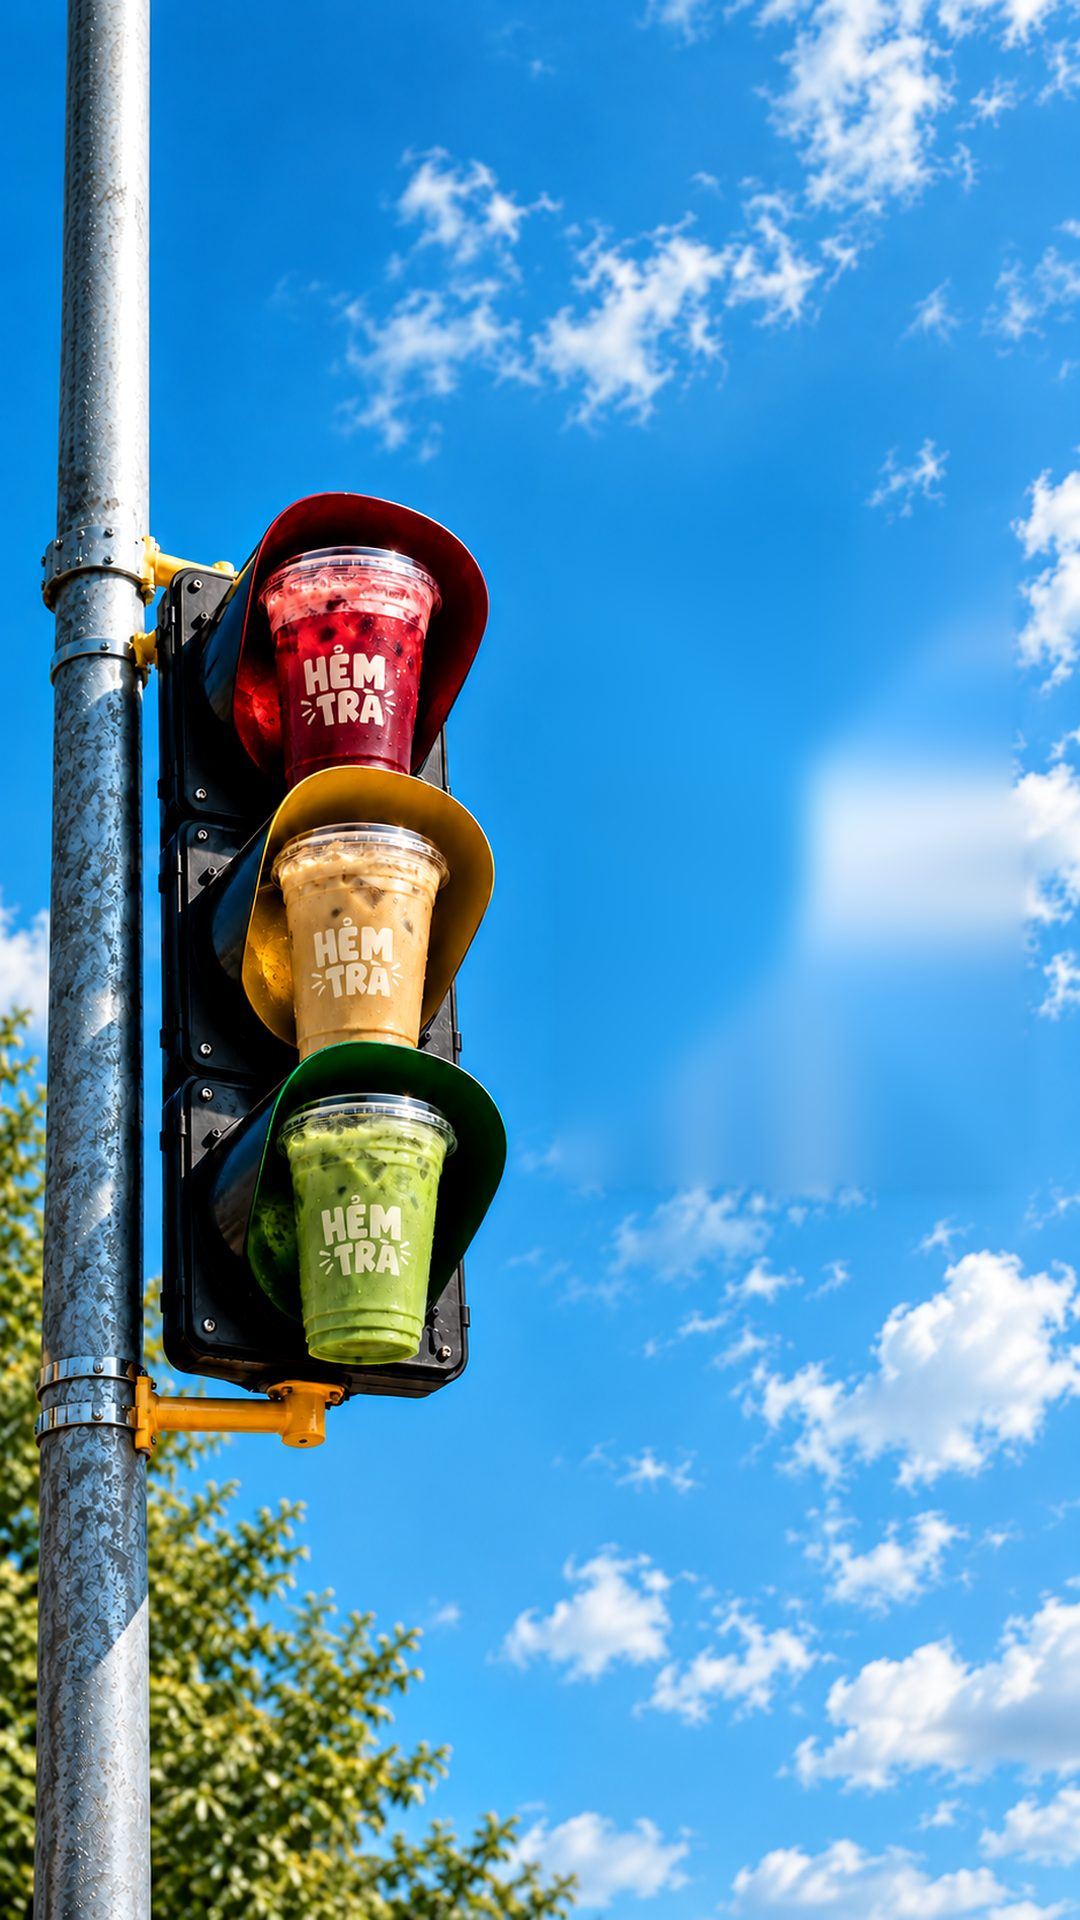
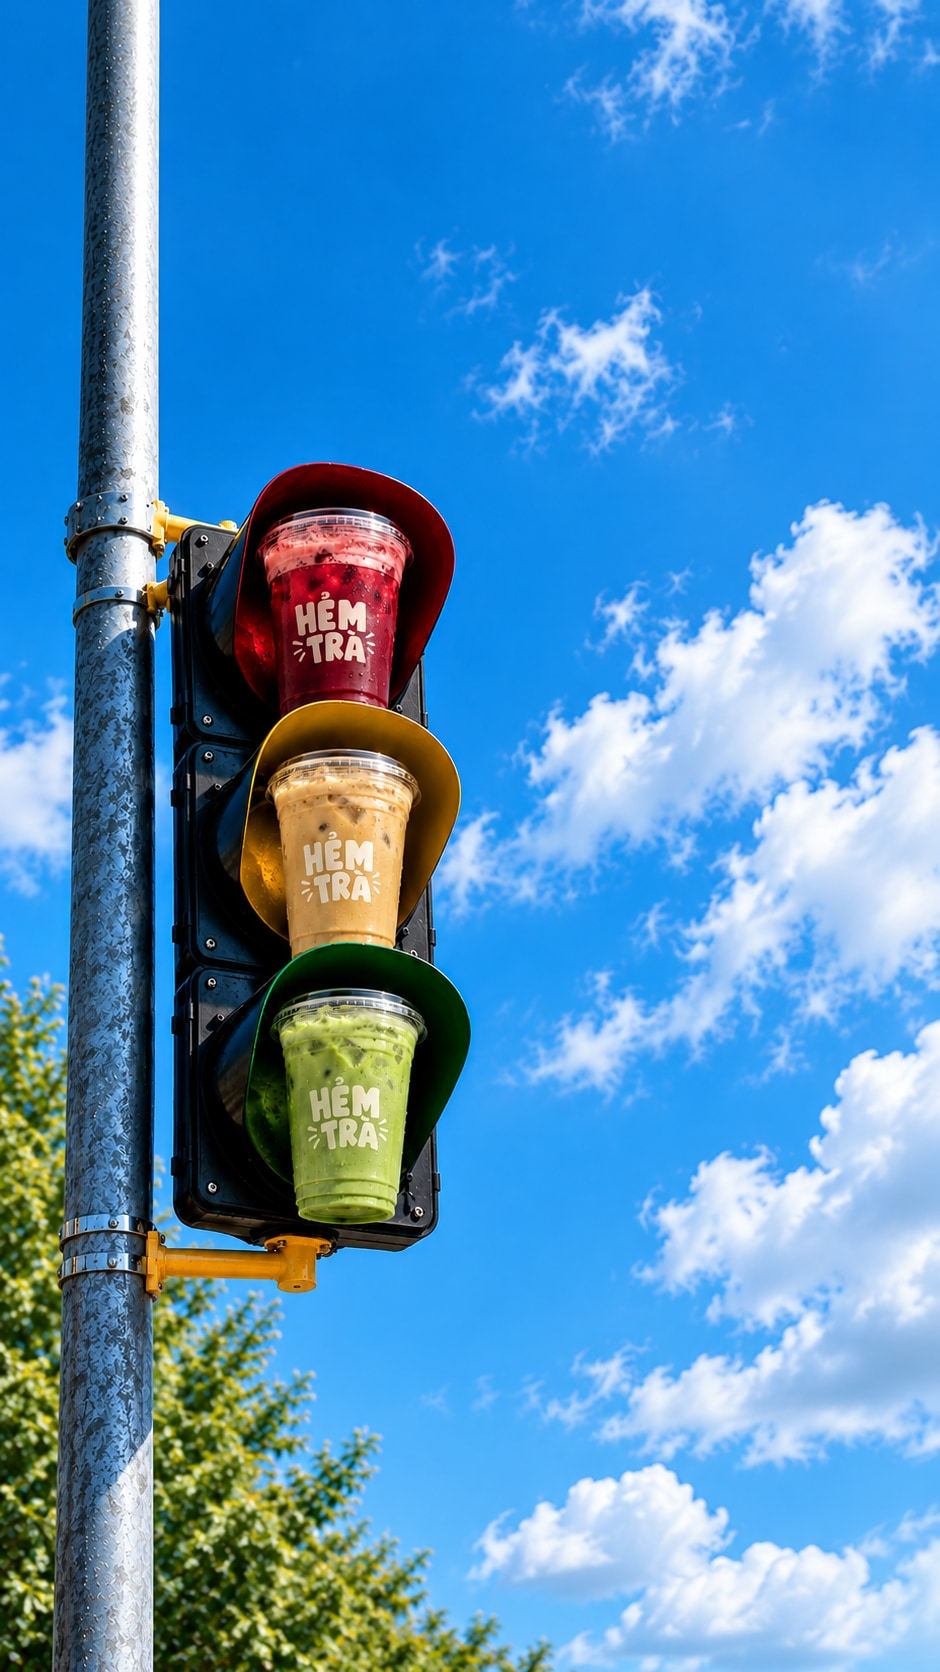
feat(P2): chot QC/SEC PASS, doi nen login bang anh goc login-hero.png
- nen login stage: thay ban trich tu template.html bi nhòe bang anh goc
  login-hero.png (940x1672) -> login-stage.webp q92 240KB + jpg q92 275KB (image-set)
- giam backdrop-blur nen sau dang nhap 24px -> 12px (design §7.2)
- QC P2 vong 1 PASS (43/43, coverage lines 96.61%, 9/9 e2e, axe sach) + 4 MINOR vao backlog
- SEC P2 vong 1 PASS (gitleaks 0, npm audit 0, XSS harness 5/5, storage chi luu username)
- state: P2 done, pointer -> P3-T0; Q-005 chot phuong an A+B; evidence p2-{qc,sec}-round1.md

diff --git a/src/features/auth/LoginStage.test.tsx b/src/features/auth/LoginStage.test.tsx
@@ -1,4 +1,4 @@
-import { act, cleanup, render, screen, waitFor } from '@testing-library/react'
+import { act, cleanup, render, screen, waitFor, within } from '@testing-library/react'
 import userEvent from '@testing-library/user-event'
 import { MemoryRouter } from 'react-router-dom'
 import { afterEach, beforeEach, describe, expect, it, vi } from 'vitest'
@@ -155,5 +155,51 @@ describe('LoginStage', () => {
 
     await user.click(screen.getByRole('button', { name: 'Quên mật khẩu' }))
     expect(screen.getByRole('status')).toHaveTextContent('Liên hệ admin')
+  })
+})
+
+const ORIGINAL_UA = window.navigator.userAgent
+
+function stubUserAgent(userAgent: string) {
+  Object.defineProperty(window.navigator, 'userAgent', { value: userAgent, configurable: true })
+}
+
+describe('LoginStage — hộp hướng dẫn cài app trên iOS (bổ sung QC Q4, P2-T4)', () => {
+  const IPHONE_UA =
+    'Mozilla/5.0 (iPhone; CPU iPhone OS 17_0 like Mac OS X) AppleWebKit/605.1.15 (KHTML, like Gecko) Version/17.0 Mobile/15E148 Safari/604.1'
+
+  beforeEach(() => {
+    window.localStorage.clear()
+    window.sessionStorage.clear()
+    stubUserAgent(IPHONE_UA)
+  })
+
+  afterEach(() => {
+    stubUserAgent(ORIGINAL_UA)
+    Reflect.deleteProperty(window.navigator, 'standalone')
+    vi.restoreAllMocks()
+  })
+
+  it('hiện nút Tải App trên iPhone và mở hộp hướng dẫn 3 bước khi chưa có beforeinstallprompt', async () => {
+    const user = userEvent.setup()
+    renderLogin()
+
+    await user.click(screen.getByRole('button', { name: /tải app/i }))
+
+    const dialog = await screen.findByRole('dialog')
+    expect(dialog).toHaveTextContent('Cài Hẻm Trà trên iPhone')
+    expect(within(dialog).getAllByRole('listitem')).toHaveLength(3)
+    await waitFor(() => expect(screen.getByRole('button', { name: 'Đóng' })).toHaveFocus())
+
+    await user.keyboard('{Escape}')
+    expect(screen.queryByRole('dialog')).not.toBeInTheDocument()
+  })
+
+  it('ẩn nút Tải App khi app đang chạy standalone dù thiết bị là iPhone', () => {
+    Object.defineProperty(window.navigator, 'standalone', { value: true, configurable: true })
+
+    renderLogin()
+    expect(screen.queryByRole('button', { name: /tải app/i })).not.toBeInTheDocument()
+    expect(screen.getByRole('button', { name: /xóa cache/i })).toBeInTheDocument()
   })
 })

diff --git a/src/features/auth/signIn.test.ts b/src/features/auth/signIn.test.ts
@@ -1,0 +1,22 @@
+import { describe, expect, it } from 'vitest'
+import { SIGN_IN_ERROR } from './loginForm'
+import { signIn, wrongPassword } from './signIn'
+
+// Bổ sung theo QC Q4/Q5 — signIn là stub nối tạm ở P2; P3-T4 thay bằng Edge
+// Function auth-login. Test ghi lại hợp đồng hiện tại để không đổi ngầm.
+describe('signIn (stub P2)', () => {
+  it('trả về ok:true cho tài khoản hợp lệ khi backend chưa được nối', async () => {
+    await expect(signIn('linh', 'mat-khau')).resolves.toEqual({ ok: true })
+  })
+
+  it('không ném lỗi với chuỗi rỗng (stub chưa validate đầu vào)', async () => {
+    await expect(signIn('', '')).resolves.toEqual({ ok: true })
+  })
+})
+
+describe('wrongPassword', () => {
+  it('trả lỗi tiếng Việt chung chung, không lộ tài khoản nào sai', () => {
+    expect(wrongPassword()).toEqual({ ok: false, message: SIGN_IN_ERROR })
+    expect(wrongPassword().message).toBe('Tài khoản hoặc mật khẩu không đúng.')
+  })
+})

diff --git a/src/features/auth/login-stage.css b/src/features/auth/login-stage.css
@@ -38,7 +38,13 @@
   width: var(--sw);
   height: 100%;
   left: min(0px, calc(100% - var(--sw) * 0.96));
+  /* Ảnh gốc do user cung cấp (login-hero.png) — không dùng bản trích từ template.html (bị nhòe).
+     image-set() tải webp khi hỗ trợ, jpeg chỉ là dự phòng. */
   background: url("../../assets/login-stage.jpg") center / 100% 100% no-repeat;
+  background-image: image-set(
+    url("../../assets/login-stage.webp") type("image/webp"),
+    url("../../assets/login-stage.jpg") type("image/jpeg")
+  );
 }
 
 .login-page .logo {

diff --git a/src/app/AppLayout.tsx b/src/app/AppLayout.tsx
@@ -21,7 +21,7 @@ export default function AppLayout() {
   return (
     <div className="relative min-h-dvh">
       <div aria-hidden="true" className="app-bg absolute inset-0" />
-      <div aria-hidden="true" className="absolute inset-0 bg-overlay backdrop-blur-lg" />
+      <div aria-hidden="true" className="absolute inset-0 bg-overlay backdrop-blur-md" />
 
       <div className="relative flex min-h-dvh">
         <aside className="hidden w-60 shrink-0 md:block">

diff --git a/.opencode/evidence/p2-sec-round1.md b/.opencode/evidence/p2-sec-round1.md
@@ -1,0 +1,63 @@
+# SEC REPORT — Phase P2 — Vòng 1
+
+```
+VERDICT: PASS
+PHẠM VI: hẹp (P2 = frontend thuần, theo loop.md §5) · BỀ MẶT: form đăng nhập
+  (loginForm.ts, LoginStage.tsx, signIn.ts stub), localStorage/sessionStorage,
+  useClearCache (giả lập), nút Tải App (install prompt), routing routes.tsx,
+  assets/CSS/font, public/_redirects, build dist/
+skills_read: [subagent.md, AGENT.md, loop.md, .opencode/skills/security/skill.md]
+```
+
+## 0. Đối chiếu scope (bắt buộc)
+
+- `git status --short` + `git diff HEAD --stat` → working tree **khớp 100%** scope_files[working tree]:
+  `THIRD_PARTY.md, plan.md, state.json, src/app/AppLayout.tsx, src/assets/login-stage.jpg,
+  src/assets/login-stage.webp (??), src/features/auth/{login-stage.css, LoginStage.test.tsx,
+  signIn.test.ts (??)}, login-hero.png (??)` + `.opencode/evidence/` (untracked, do subagent tạo).
+- `git show d7ed769 --name-status` → **lệch minor so với scope_files[commit]** (không phải lỗi bảo mật):
+  ngoài danh sách còn `M package-lock.json`, `M src/main.tsx`, `M state.json`,
+  `D src/App.tsx`, `D src/App.test.tsx`, `D src/index.css` (đổi chỗ App → `src/app/`,
+  `index.css` → `src/styles/`). Không có file nào ngoài khối UI của P2.
+- Không có thay đổi nào trong `supabase/` (`git show d7ed769 --name-only | grep '^supabase/'` → rỗng;
+  `git status --short supabase/` → rỗng).
+
+## 1. Kết quả theo hạng mục
+
+| # | Kết quả | Lệnh + output ngắn |
+|---|---|---|
+| S1 | ✔ | `gitleaks detect -v --redact` → `20 commits scanned … no leaks found` (exit 0). `gitleaks detect --no-git -v --redact .` → 3 finding, **tất cả nằm trong `.env` local đã gitignore** (`git check-ignore -v .env` → `.gitignore:2:.env`; `git log --all --oneline -- .env` → rỗng = chưa từng commit). `git grep -IE "(SUPABASE_\|eyJ[A-Za-z0-9_-]{20,}\|sk_live\|AIza)"` → chỉ `/.env.example` (placeholder `<anon-key>`), `.opencode/skills/*` (tài liệu), `package-lock.json:integrity sha512-…` (hash, không phải key). **dist/ sạch**: build lại (`npm run build` exit 0) rồi grep thật cả 5 giá trị key trong `.env` + pattern `eyJ{20,}\|sk_live\|AIza{15,}\|SERVICE_ROLE` trên `dist/` → 0 hit; binary `login-hero.png`, `src/assets/*.{png,jpg,webp}`, `public/fonts/*.woff2` → 0 hit. |
+| S2 | ✔ | `npm audit --omit=dev` → `found 0 vulnerabilities` (exit 0); `npm audit` (toàn bộ) cũng `0 vulnerabilities`. |
+| S3 | N-A | P2 không đụng DB: `git show d7ed769 --name-only \| grep '^supabase/'` → rỗng, `git status supabase/` → rỗng. Không migration mới trong phase → không có gì để kiểm RLS mới; RLS đã xác minh ở P1 (prev: 28/28 test). |
+| S4 | N-A | `grep -rIn "createClient\|fetch(\|supabase\.\|axios" src/` → **rỗng** (không client/network nào). `src/features/auth/signIn.ts:7-10` là stub `return { ok: true }` — chưa có API/Edge Function để gọi; server-side auth/PHQ ở **P3-T4**. |
+| S5 | N-A | Không tồn tại xác thực server/token trong phase này (signIn stub, không JWT/lockout) — lockout 5/15 phút + token hết hạn/sửa được kiểm ở P3/P10 (prev P1 đã có `session_fresh()`). |
+| S6 | N-A | Bootstrap admin thuộc **P3**; không có endpoint bootstrap trong diff P2. |
+| S7 | ✔ | Harness S7 riêng (vitest/jsdom, chạy ngoài repo: `/tmp/opencode/sec/`) → **5/5 pass**: 4 payload `<script>alert(1)</script>`, `"><img src=x onerror=alert(1)>`, `' OR 1=1--`, `<svg/onload=alert(document.cookie)>` nhập vào ô Tài khoản + Mật khẩu rồi submit, **và** đặt làm saved-username render lại placeholder `Mật khẩu của <payload>` → 0 element `script/img/iframe/object/embed`, 0 attribute `on*` inline, spy `window.alert` không gọi, không lỗi, không `role=alert`. Giá trị round-trip đúng dạng data (`placeholder === "Mật khẩu của "+payload`). `grep -rIn "dangerouslySetInnerHTML\|innerHTML\|\beval(\|new Function\|document.write" src/` → **rỗng**; e2e `npx playwright test` → 9/9 pass với assertion `expect(errors).toEqual([])` (0 console error). |
+| S8 | N-A | 5 trang (`Dashboard/Products/Pos/Bills/Users`) là stub text-only (`src/features/pos/PosPage.tsx` chỉ `<h1>+<p>`), không ID/dữ liệu/bill nào để truy cập chéo; signed URL/Storage không thuộc phase. |
+| S9 | N-A | Không có upload/Storage trong P2 (không `supabase.storage`, không input file). Bucket/policy đã xác minh ở P1 (P1-T8). |
+| S10 | N-A | Không có endpoint để bắn rate limit; `signIn` stub không gọi mạng. Rate limit tạo bill đã có ở P1 (`create_bill`), lockout đăng nhập kiểm ở P3-T4/P10. |
+| S11 | N-A | **Theo plan**: `plan.md:62` (P4-T1) và `plan.md:128` (P10-T1) đặt `public/_headers` (CSP/HSTS/no-cache) — chưa đến phase. Xác nhận `find dist -name _headers` → rỗng (đúng, chưa có). Không chặn cổng. |
+| S12 | ✔ (hẹp) | `find dist public src -name 'sw.js' -o -name '*.webmanifest'` + `grep -rIn "serviceWorker\|manifest" src/ index.html public/` → **rỗng**: phase này chưa có SW/manifest (P4-T1). `public/_redirects` = đúng 1 dòng `/* /index.html 200` (SPA fallback thuần, không có cache-control/token nào); không có gì cache token/API. |
+| S13 | ✔ | `grep -rIn "localStorage\|sessionStorage" src/` → **chỉ** `loginForm.ts:25,30,36,37` + comment `useClearCache.ts:9` + test; storage key duy nhất `export const USERNAME_KEY = 'hemtra.username'` (`loginForm.ts:8`) — **không lưu mật khẩu/token**. Harness: sau đăng nhập `Object.keys(allStorage()) === ['hemtra.username']`, `JSON.stringify(storage)` không chứa `mat-khau-bi-mat-123`; tắt "Ghi nhớ" → chỉ `sessionStorage`, `localStorage` null. `grep -rIn "console\." src/` → **rỗng** (0 log, nên không log PII/secret). Không `dangerouslySetInnerHTML`/`eval`. |
+| S14 | N-A | Không có logic tiền/bill: `grep -rIn "client_uuid\|price\|create_bill\|VND" src/features/` → rỗng; 5 trang stub. Server tính lại giá (`create_bill`) đã xác minh ở P1. |
+| S15 | N-A | **P3-T5 chưa làm** → chưa có phiên/`login_at`/JWT để kiểm. Những gì P2 thật sự sở hữu đã kiểm ở S13: checkbox "Ghi nhớ" chỉ đổi nơi giữ **username** (`loginForm.ts:28-32` localStorage vs sessionStorage), không ảnh hưởng phiên. |
+
+Phụ trợ (không phải checklist SEC nhưng là lệnh trong commands_hint, làm bằng chứng nền):
+`npm run typecheck` → exit 0 · `npm run lint` → exit 0 · `npm run test -- --run` → **43/43 pass**
+· `npm run build` → exit 0 (js 277.31 kB / gzip 88.23 kB) · `npx playwright test` → **9/9 pass** (0 console error).
+
+## 2. LỖI
+
+**Không có.** Không BLOCKER/MAJOR/MINOR nào thuộc checklist S1–S15 ở phạm vi hẹp P2 → không cần backlog mới từ SEC.
+
+## 3. NGHI VẤN (chưa chứng minh, không chặn)
+
+1. `gitignore` cover hẹp: `.gitignore:2-4` chỉ có `.env`, `.env.local`, `.env.*.local` — file `.env.production`/`.env.staging` (nếu sinh sau) **không** bị ignore. Hiện chưa có file nào như vậy → ghi `backlog` (đề xuất: thêm `.env.*` nhưng giữ `.env.example`).
+2. `.env` local chứa `SUPABASE_SERVICE_ROLE_KEY` + `SUPABASE_ACCESS_TOKEN` (gitleaks bắt ở chế độ `--no-git`). Đã gitignore, chưa từng commit (`git log --all -- .env` rỗng) → không vi phạm AGENT.md §6; nhắc duy trì quy tắc và ưu tiên dọn khỏi working dir khi không dùng.
+3. `src/app/routes.tsx:13-28` không có auth guard + `signIn` stub luôn thành công → ai cũng mở được `/dashboard|/products|/pos|/bills|/users`. **Đúng kế hoạch** (guard = P3-T7, trang rỗng không dữ liệu) → ghi để P3 xác nhận lại khi gắn phiên thật.
+
+## 4. KHÔNG KIỂM ĐƯỢC
+
+- Server-side (S3/S4/S5/S6/S10/S14/S15 phần backend): ngoài bề mặt P2 (frontend thuần, không network call) — chuyển sang **P3/P10**.
+- Header thật từ Cloudflare Pages (S11): `_headers` chưa tồn tại → kiểm lại ở **P4-T1/P10-T1**.
+- Tấn công runtime trên trình duyệt thật cho payload (S7): đã thay bằng harness jsdom 5 test + e2e 9 test (0 console error); nếu cần chứng minh mạnh hơn, thêm case XSS vào `e2e/p2-login.spec.ts` ở vòng QC kế tiếp (không thuộc quyền của security-audit).

diff --git a/.opencode/evidence/p2-qc-round1.md b/.opencode/evidence/p2-qc-round1.md
@@ -1,0 +1,35 @@
+# QC REPORT — Phase P2 — Vòng 1
+
+VERDICT: PASS
+TÓM TẮT: P2 (T1–T7) đạt toàn bộ hạng mục Q1–Q12 (Q8 N/A — phase không chạm DB).
+qc-test đã bổ sung 5 unit test (hộp hướng dẫn iOS trên iPhone, ẩn nút khi standalone, `signIn`) → tổng 43/43 pass.
+
+KẾT QUẢ THEO HẠNG MỤC:
+- Q1 ✔ `npm run typecheck` → exit 0
+- Q2 ✔ `npm run lint` → exit 0
+- Q3 ✔ `npx vitest run` → 43/43 pass, không `.skip/.only` mới
+- Q4 ✔ đối chiếu tasks_done ↔ test: validate form, lưu username, install prompt,
+  clear-cache hook, LoginStage render/shake/reduced-motion — happy path + biên + lỗi
+- Q5 ✔ `npx vitest run --coverage` → lines **96.61%** (ngưỡng ≥ 80%)
+- Q6 ✔ không assert rỗng; mock che lỗi thật; tên mô tả hành vi
+- Q7 ✔ đối chiếu `design.md` §7 (vị trí % logo/card, radius/blur, reduced-motion)
+- Q8 N/A — phase không chạm DB/migration
+- Q9 ✔ `npm run build` → JS 277.31 kB / **gzip 88.23 kB** (< ngưỡng 250 kB)
+- Q10 ✔ `npx playwright test` → 9/9 (chromium/webkit/mobile × 3 test); không vỡ layout
+  390×844 và 1280×800; 0 lỗi console; ảnh chụp `e2e/screenshots/`
+- Q11 ✔ axe-core qua Playwright → 0 vi phạm serious/critical
+- Q12 ⚠ `git diff` sát scope P2; 4 mục MINOR không chặn → ghi `backlog`
+
+MINOR (không chặn cổng, đã ghi `state.json → backlog`):
+- [QC P2-001] file rác `login-hero.png` ở root → nay đã dùng làm nguồn ảnh nền login
+  (`src/assets/login-stage.webp|jpg`), giữ ở root như `Logo.png`/`background.png`
+- [QC P2-002] lệch scope: repo track nhiều file ngoài app (`.claude/`, `agent/`, `.opencode/`, PNG gốc ở root)
+- [QC P2-003] `.gitignore` thiếu `coverage/`
+- [QC P2-004] dead export `wrongPassword()` (`src/features/auth/signIn.ts:12`)
+
+TEST ĐÃ BỔ SUNG:
+- `src/features/auth/LoginStage.test.tsx` (+2: hộp hướng dẫn iOS 3 bước + Esc/focus; ẩn nút khi standalone)
+- `src/features/auth/signIn.test.ts` (mới, 22 dòng)
+
+GHI CHÚ: Bản đầy đủ của báo cáo subagent không được lưu lại nguyên văn (main chỉ giữ tóm tắt);
+nội dung file này là bản tái dựng từ state/evidence.

diff --git a/THIRD_PARTY.md b/THIRD_PARTY.md
@@ -12,8 +12,11 @@
 | `background.png` | `src/assets/background.png` (gốc) + `background.webp` (nén 80%, dùng chính) | Nền sau đăng nhập |
 | `chart 1.png` | `src/assets/chart-line.png` | Mẫu Chart A (đường) |
 | `chart 2.png` | `src/assets/chart-radial.png` | Mẫu Chart B (vòng cung) |
-| `template.html` | (tham khảo, không ship) | Mẫu màn hình login |
-| `template.html` (data URI) | `src/assets/login-stage.jpg`, `src/assets/login-logo.png` | Nền + logo màn login (P2-T2) |
+| `login-hero.png` | `src/assets/login-stage.webp` (nén 92%, dùng chính) + `login-stage.jpg` (dự phòng) | Nền màn login (P2-T2) |
+| `template.html` (data URI) | `src/assets/login-logo.png` | Logo màn login (P2-T2) |
+
+> Ghi chú: bản nền login trích từ `template.html` (JPEG 1080×1920) bị nhòe → thay bằng ảnh gốc
+> `login-hero.png` do user upload (940×1672, PNG). `template.html` chỉ còn dùng để tham khảo + trích logo.
 
 ## 2. Font (P2-T1 — ghi khi nhúng)
 

diff --git a/plan.md b/plan.md
@@ -42,7 +42,7 @@ Tài nguyên có sẵn từ user: `Logo.png`, `Favicon.png`, `background.png`, `
 - [x] **P2-T5** Nút **"Xóa cache & Tải lại"** trên màn login (logic ở P4; ở đây dựng UI + hook giả lập có test)
 - [x] **P2-T6** Layout sau đăng nhập: nền `background.png` + overlay, sidebar (desktop) / bottom-nav (mobile) 5 menu, trang trống từng menu
 - [x] **P2-T7** Test component + ảnh chụp Playwright (390×844 và 1280×800)
-- **Gate:** QC ☐ · SEC ☐
+- **Gate:** QC ☑ PASS (2026-10-02, 43/43 unit + 9/9 e2e, xem `state.json → loop.last_report`) · SEC ☑ PASS (2026-10-02, 0 lỗi, `.opencode/evidence/p2-sec-round1.md`)
 
 ## P3 — Xác thực, bootstrap admin, phiên
 📖 `backend/skill.md`, `security/skill.md §Auth`
